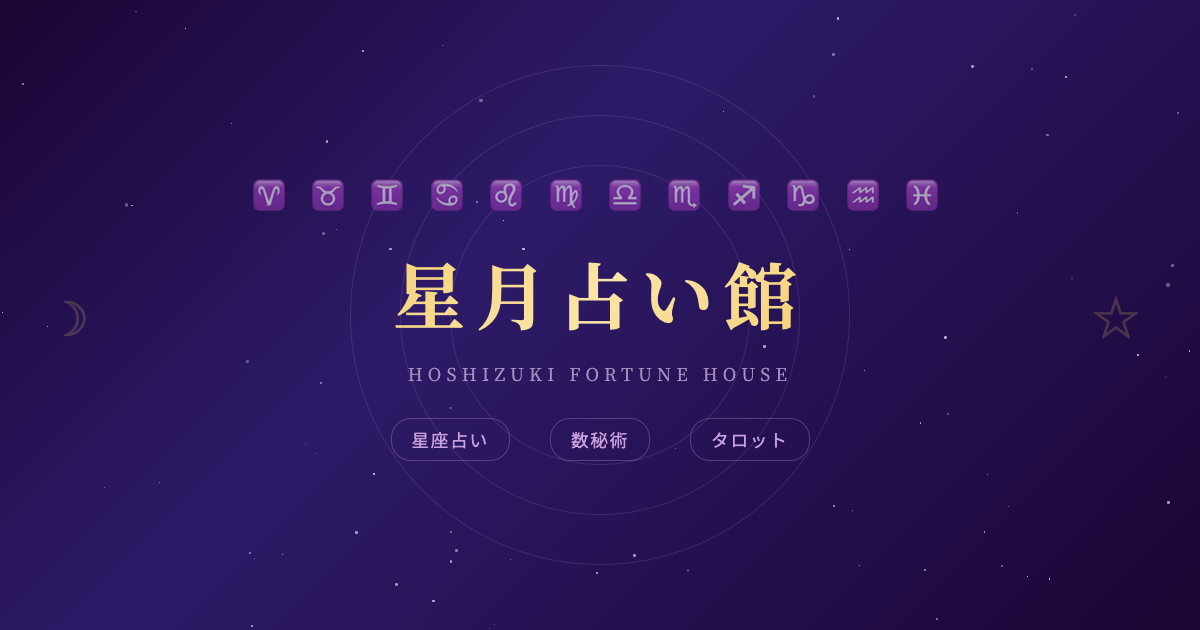
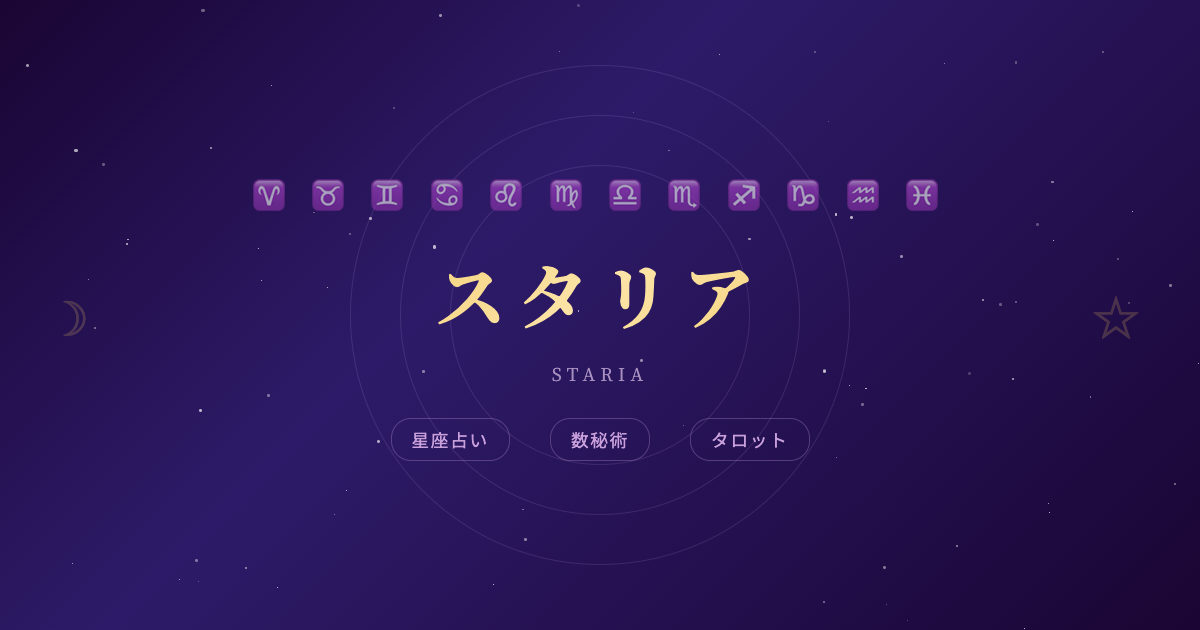
サイト名を「スタリア」に変更

Changed region(s): [[0.3392, 0.4222, 0.6783, 0.5429], [0.3392, 0.573, 0.6475, 0.6032]]

diff --git a/index.html b/index.html
@@ -3,10 +3,10 @@
 <head>
   <meta charset="UTF-8">
   <meta name="viewport" content="width=device-width, initial-scale=1.0">
-  <title>星月占い館 | 無料タロット・数秘術であなたの運命を読み解く</title>
+  <title>スタリア | 無料タロット・数秘術であなたの運命を読み解く</title>
   <meta name="description" content="完全無料のタロット占い・数秘術占い。生年月日から運命数を算出し、今日の運勢やあなたの本質を詳しく鑑定します。">
   <meta name="keywords" content="占い,無料,タロット,数秘術,運勢,今日の運勢,恋愛運,仕事運">
-  <meta property="og:title" content="星月占い館 | 無料タロット・数秘術">
+  <meta property="og:title" content="スタリア | 無料タロット・数秘術">
   <meta property="og:description" content="完全無料のタロット占い・数秘術占い。あなたの運命を読み解きます。">
   <meta property="og:type" content="website">
   <meta property="og:image" content="ogp.png">
@@ -511,8 +511,8 @@
 
 <div class="container">
   <header>
-    <div class="logo">星月占い館</div>
-    <div class="logo-sub">HOSHIZUKI FORTUNE HOUSE</div>
+    <div class="logo">スタリア</div>
+    <div class="logo-sub">STARIA</div>
   </header>
 
   <!-- Navigation -->
@@ -615,7 +615,7 @@
   </div>
 
   <footer>
-    <p>&copy; 2026 星月占い館 All Rights Reserved.</p>
+    <p>&copy; 2026 スタリア All Rights Reserved.</p>
     <p style="margin-top:8px;">
       <a href="privacy.html">プライバシーポリシー</a> ｜
       <a href="privacy.html#4">免責事項</a> ｜
@@ -792,7 +792,7 @@ function showZodiacResult(name) {
   resultBox.scrollIntoView({ behavior: 'smooth', block: 'center' });
 
   // Update share links
-  const text = encodeURIComponent(`${name}の今日の運勢は${starsHTML(fortune.overall)}！\n${fortune.message}\n\n${SITE_URL}\n#星月占い館 #今日の運勢 #${name}`);
+  const text = encodeURIComponent(`${name}の今日の運勢は${starsHTML(fortune.overall)}！\n${fortune.message}\n\n${SITE_URL}\n#スタリア #今日の運勢 #${name}`);
   document.getElementById('share-x-zodiac').href = `https://twitter.com/intent/tweet?text=${text}`;
   document.getElementById('share-line-zodiac').href = `https://social-plugins.line.me/lineit/share?text=${text}`;
 
@@ -961,7 +961,7 @@ document.getElementById('numerology-btn').addEventListener('click', () => {
     <div class="share-section" style="margin-top:24px;">
       <p>結果をシェアしよう</p>
       <div class="share-buttons">
-        <a class="share-btn share-x" href="https://twitter.com/intent/tweet?text=${encodeURIComponent(`私の運命数は【${num}】${data.title}\n${data.traits.join('・')}\n\nあなたも無料で占ってみて！\n${SITE_URL}\n#星月占い館 #数秘術 #運命数${num}`)}" target="_blank">𝕏</a>
+        <a class="share-btn share-x" href="https://twitter.com/intent/tweet?text=${encodeURIComponent(`私の運命数は【${num}】${data.title}\n${data.traits.join('・')}\n\nあなたも無料で占ってみて！\n${SITE_URL}\n#スタリア #数秘術 #運命数${num}`)}" target="_blank">𝕏</a>
         <a class="share-btn share-line-btn" href="https://social-plugins.line.me/lineit/share?text=${encodeURIComponent(`私の運命数は【${num}】${data.title}！あなたも占ってみて！\n${SITE_URL}`)}" target="_blank">L</a>
       </div>
     </div>
@@ -1053,7 +1053,7 @@ function showTarotResult(card, reversed) {
     <div class="share-section" style="margin-top:24px;">
       <p>結果をシェアしよう</p>
       <div class="share-buttons">
-        <a class="share-btn share-x" href="https://twitter.com/intent/tweet?text=${encodeURIComponent(`タロット占いで【${card.name}】${card.emoji}が出ました！\n${position}：${reading.substring(0, 50)}...\n\n${SITE_URL}\n#星月占い館 #タロット占い`)}" target="_blank">𝕏</a>
+        <a class="share-btn share-x" href="https://twitter.com/intent/tweet?text=${encodeURIComponent(`タロット占いで【${card.name}】${card.emoji}が出ました！\n${position}：${reading.substring(0, 50)}...\n\n${SITE_URL}\n#スタリア #タロット占い`)}" target="_blank">𝕏</a>
         <a class="share-btn share-line-btn" href="https://social-plugins.line.me/lineit/share?text=${encodeURIComponent(`タロットで${card.name}(${position})が出たよ！${reading.substring(0, 50)}...\n${SITE_URL}`)}" target="_blank">L</a>
       </div>
     </div>

diff --git a/privacy.html b/privacy.html
@@ -3,7 +3,7 @@
 <head>
   <meta charset="UTF-8">
   <meta name="viewport" content="width=device-width, initial-scale=1.0">
-  <title>プライバシーポリシー | 星月占い館</title>
+  <title>プライバシーポリシー | スタリア</title>
   <link href="https://fonts.googleapis.com/css2?family=Noto+Sans+JP:wght@400;700&family=Noto+Serif+JP:wght@700&display=swap" rel="stylesheet">
   <style>
     :root {
@@ -59,7 +59,7 @@
     <h1>プライバシーポリシー</h1>
     <p class="updated">最終更新日：2026年3月29日</p>
 
-    <p>星月占い館（以下「当サイト」）は、ユーザーの個人情報の取り扱いについて、以下のとおりプライバシーポリシーを定めます。</p>
+    <p>スタリア（以下「当サイト」）は、ユーザーの個人情報の取り扱いについて、以下のとおりプライバシーポリシーを定めます。</p>
 
     <h2>1. 収集する情報</h2>
     <p>当サイトでは、占い機能のご利用にあたり、以下の情報をブラウザ上で処理します。これらの情報はサーバーに送信・保存されることはありません。</p>
@@ -91,7 +91,7 @@
     <h2>7. ポリシーの変更</h2>
     <p>当サイトは、必要に応じて本ポリシーを変更することがあります。変更後のポリシーは当ページに掲載した時点で効力を生じるものとします。</p>
 
-    <a href="index.html" class="back">← 星月占い館に戻る</a>
+    <a href="index.html" class="back">← スタリアに戻る</a>
   </div>
 </body>
 </html>

diff --git a/sns-template.html b/sns-template.html
@@ -111,7 +111,7 @@
   <div class="stars" id="stars"></div>
 
   <div class="header">
-    <div class="site-name">星月占い館</div>
+    <div class="site-name">スタリア</div>
     <div class="date" id="date"></div>
     <div class="title">今日の星座運勢ランキング</div>
   </div>
@@ -120,7 +120,7 @@
 
   <div class="footer">
     <div class="footer-text">詳しい占い結果はプロフィールのリンクから</div>
-    <div class="footer-url">@hoshizuki_fortune</div>
+    <div class="footer-url">@staria_uranai</div>
   </div>
 
   <script>

diff --git a/ogp.html b/ogp.html
@@ -106,8 +106,8 @@
 
   <div class="content">
     <div class="zodiac-icons">♈ ♉ ♊ ♋ ♌ ♍ ♎ ♏ ♐ ♑ ♒ ♓</div>
-    <div class="title">星月占い館</div>
-    <div class="subtitle">HOSHIZUKI FORTUNE HOUSE</div>
+    <div class="title">スタリア</div>
+    <div class="subtitle">STARIA</div>
     <div class="features">
       <div class="feature">星座占い</div>
       <div class="feature">数秘術</div>

diff --git a/sns-profiles.md b/sns-profiles.md
@@ -1,14 +1,14 @@
 # SNSプロフィール文テンプレート
 
 ## アカウント名候補
-- @hoshizuki_fortune（星月占い館）
-- @hoshizuki_uranai
+- @staria_uranai（スタリア）
+- @staria_fortune
 
 ---
 
 ## X（旧Twitter）
 
-**名前:** 星月占い館｜毎日無料占い
+**名前:** スタリア｜毎日無料占い
 **プロフィール:**
 ```
 毎朝あなたの星座運勢をお届け ☽
@@ -22,14 +22,14 @@
 **運用ポイント:**
 - 毎朝7時に「今日の星座ランキング」を投稿
 - 占い結果のスクショをシェアしてもらうキャンペーン
-- ハッシュタグ: #今日の運勢 #星座占い #タロット #星月占い館
+- ハッシュタグ: #今日の運勢 #星座占い #タロット #スタリア
 
 ---
 
 ## Instagram
 
-**名前:** 星月占い館
-**ユーザー名:** @hoshizuki_fortune
+**名前:** スタリア
+**ユーザー名:** @staria_uranai
 **プロフィール:**
 ```
 ✧ 毎日の星座運勢をお届け ✧
@@ -51,8 +51,8 @@
 
 ## TikTok
 
-**名前:** 星月占い館
-**ユーザー名:** @hoshizuki_fortune
+**名前:** スタリア
+**ユーザー名:** @staria_uranai
 **プロフィール:**
 ```
 毎日の星座運勢をお届け☽
@@ -96,7 +96,7 @@
 ▼ 詳しい占い結果はこちら
 {サイトURL}
 
-#今日の運勢 #星座占い #星月占い館
+#今日の運勢 #星座占い #スタリア
 ```
 
 ### タロット投稿
@@ -110,5 +110,5 @@
 あなたも引いてみて ▼
 {サイトURL}
 
-#タロット占い #星月占い館
+#タロット占い #スタリア
 ```
